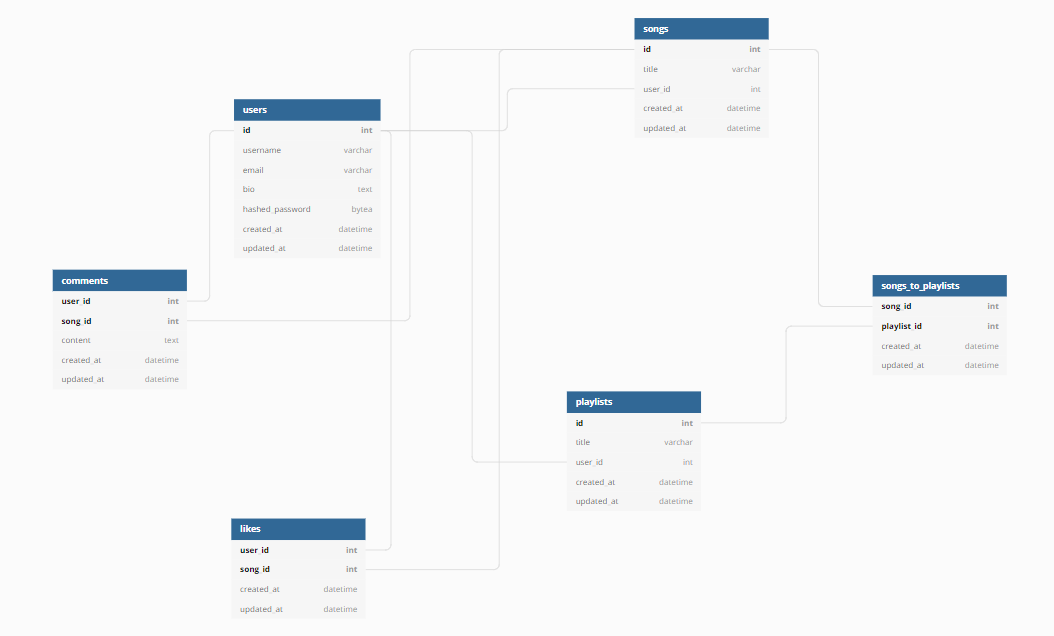
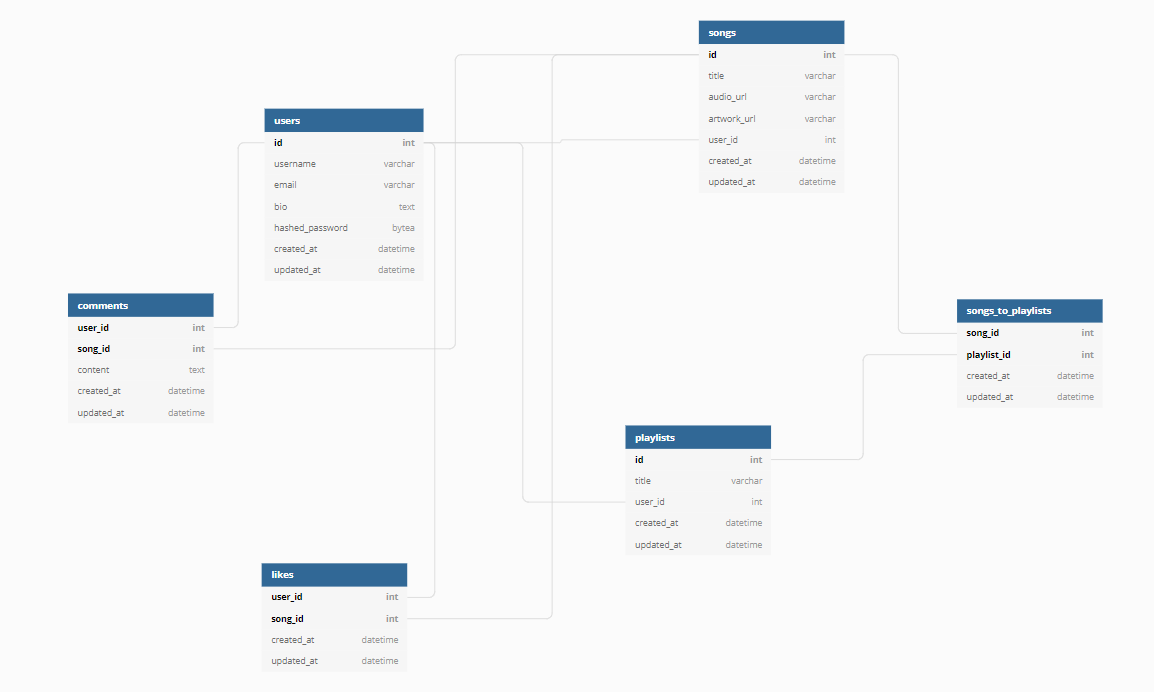
wireframe and minor change to db schema

diff --git a/klangwolke/docs/database_schema.md b/klangwolke/docs/database_schema.md
@@ -11,6 +11,8 @@ Table users {
 Table songs {
   id int [pk, increment]
   title varchar
+  audio_url varchar
+  artwork_url varchar
   user_id int [ref: > users.id]
   created_at datetime
   updated_at datetime
